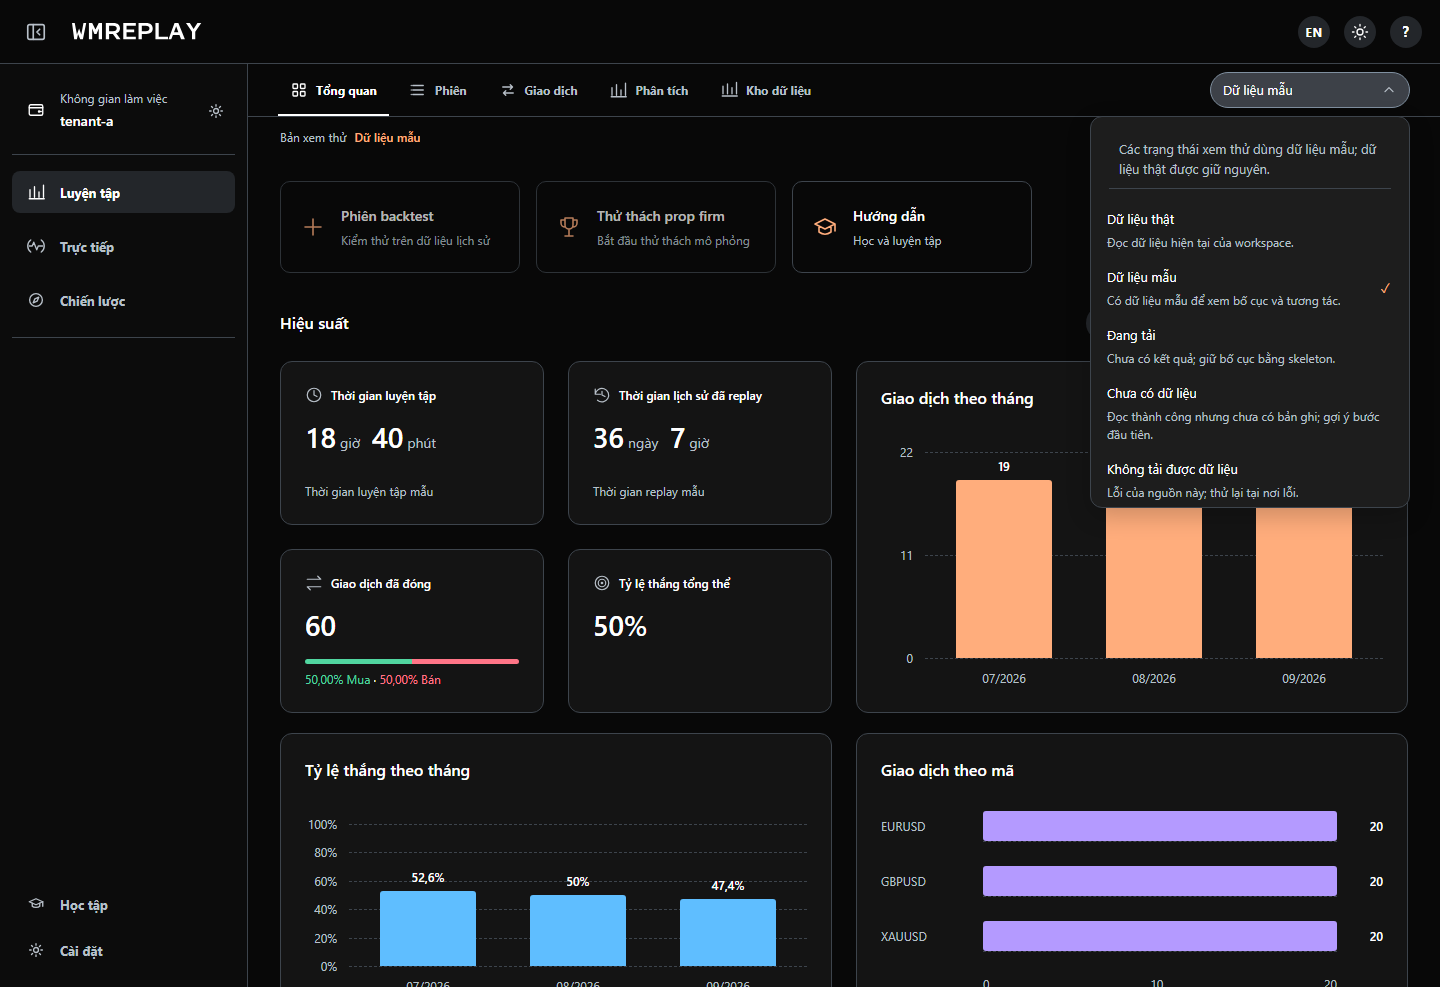
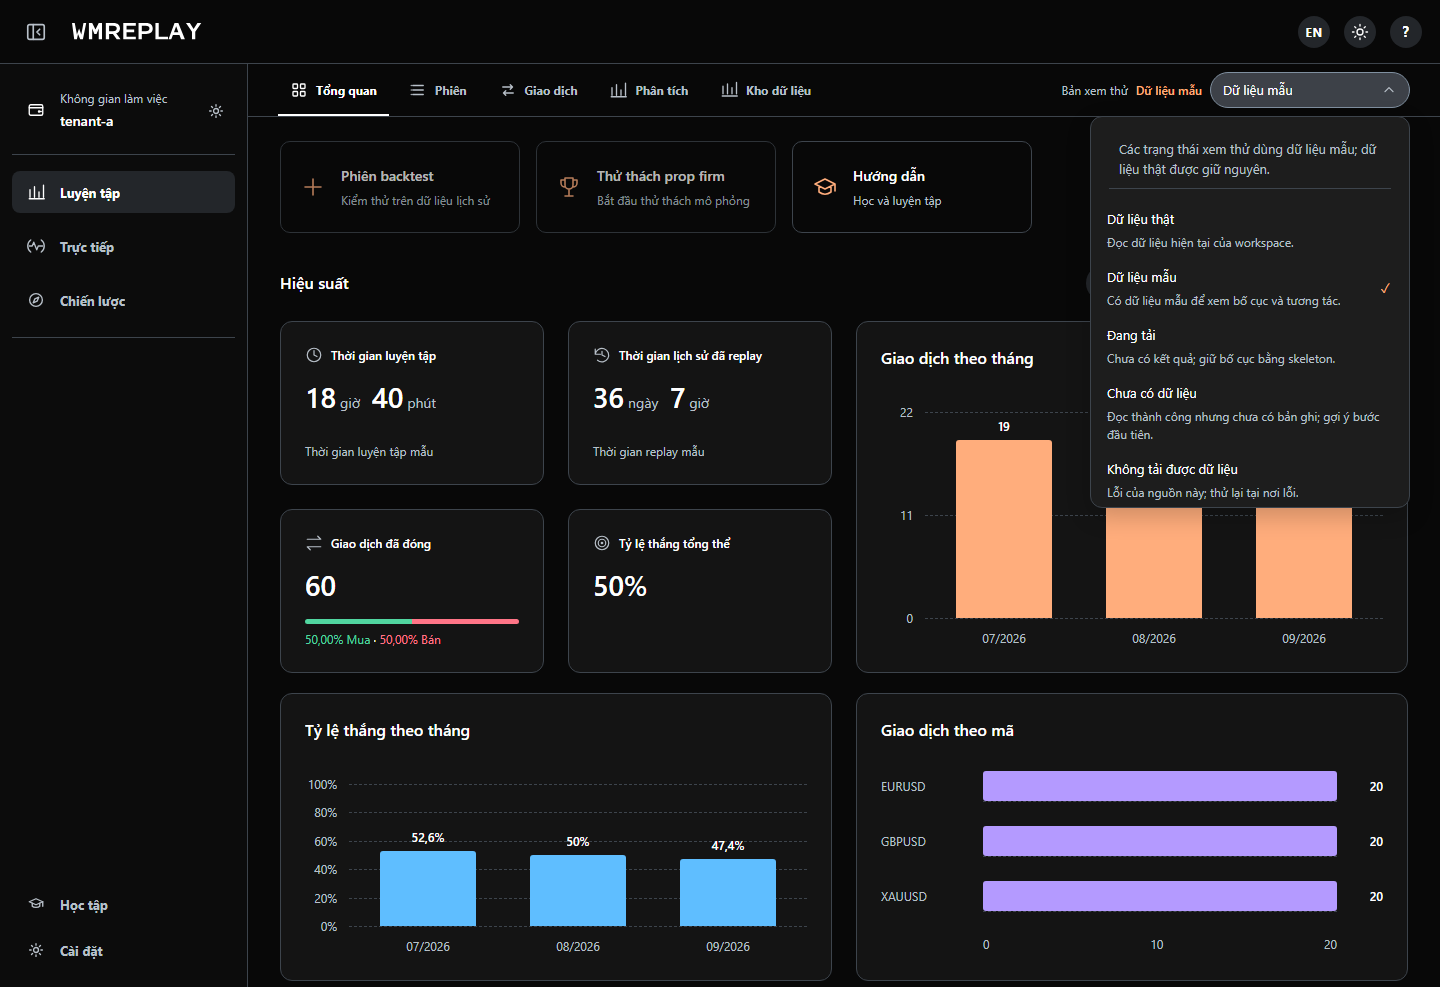
fix: place preview status beside shared data selector

diff --git a/foundation_v2/web/src/view-state-preview.css b/foundation_v2/web/src/view-state-preview.css
@@ -1,12 +1,21 @@
-.wm-view-state-select { width:clamp(140px,16vw,200px); }
+.wm-view-state-select { width:clamp(140px,16vw,200px); flex-shrink:0; }
 .fx-app .wm-view-state-select .fx-select-trigger { border-color:transparent; background:var(--wm-control-open); }
 .fx-app .wm-view-state-select .fx-select-menu { width:320px; }
 .wm-view-state-menu-hint { padding:4px 10px 10px; margin:0; border-bottom:1px solid var(--wm-border); font-size:12px; line-height:1.5; color:var(--wm-content-muted); }
-.wm-view-state-note { display:flex; align-items:center; flex-wrap:wrap; gap:8px; padding:12px 0; color:var(--wm-content-muted); font-size:12px; }
-.wm-view-state-note strong { color:var(--project-highlight); font-weight:500; }
+.wm-view-state-note { display:flex; align-items:center; gap:8px; max-width:min(300px,22vw); color:var(--wm-content-muted); font-size:12px; white-space:nowrap; }
+.wm-view-state-note > span { flex-shrink:0; }
+.wm-view-state-note strong { min-width:0; overflow:hidden; text-overflow:ellipsis; color:var(--project-highlight); font-weight:500; }
 .wm-view-state-placeholder { padding:8px 0 var(--wm-page-gutter); }
 .wm-view-state-placeholder > .fxa-button { margin-top:12px; }
 .wm-view-state-update { padding:0; }
 .wm-view-state-update .wm-read-state { margin:0; }
 .wm-view-state-placeholder .wm-read-state button, .wm-view-state-update .wm-read-state button { flex-shrink:0; white-space:nowrap; }
-@media(max-width:600px) { .wm-view-state-select { width:140px; } }
+@media(max-width:600px) {
+  .fx-app.fx-shell-story:not(.is-chart-workspace) .fx-subnav:has(.wm-view-state-select) { flex-wrap:wrap; row-gap:0; }
+  .fx-app.fx-shell-story:not(.is-chart-workspace) .fx-subnav:has(.wm-view-state-select) .fx-subnav-primary { flex:1 0 100%; min-width:0; }
+  .fx-app.fx-shell-story:not(.is-chart-workspace) .fx-subnav:has(.wm-view-state-select) .fx-subnav-action { flex-basis:100%; display:flex; justify-content:flex-end; padding-block:8px; }
+  .fx-subnav-action .wm-demo-action { max-width:100%; }
+  .wm-view-state-select { width:140px; }
+  .wm-view-state-note { flex-direction:column; align-items:flex-start; gap:0; min-width:0; max-width:92px; line-height:1.3; }
+  .wm-view-state-note strong { max-width:100%; }
+}

diff --git a/foundation_v2/web/src/ViewStatePreview.jsx b/foundation_v2/web/src/ViewStatePreview.jsx
@@ -10,7 +10,10 @@ const DemoPreview = lazy(() => import('./DemoPreview.jsx'))
 
 export function ViewStateSelect({ value, view, onChange }) {
   const { t } = useTestingLocale()
-  return <div className="wm-demo-action"><FxSelect className="wm-view-state-select" label="Chế độ xem dữ liệu" value={value}
+  const label = DATA_STATES.find(([state]) => state === value)?.[1] || 'Dữ liệu mẫu'
+  return <div className="wm-demo-action">
+    {value !== 'real' && <div className="wm-view-state-note" data-testid="view-state-preview" data-preview-state={value} role="status"><span>{t('Bản xem thử')}</span><strong title={t(label)}>{t(label)}</strong></div>}
+    <FxSelect className="wm-view-state-select" label="Chế độ xem dữ liệu" value={value}
     triggerContent={t(previewOptions(view).find(option => option.value === value)?.label)}
     options={previewOptions(view).map(option => ({ ...option, detail: option.disabled ? 'Chưa có mẫu trạng thái này cho trang hiện tại.' : option.detail }))}
     menuHeader={<p className="wm-view-state-menu-hint">{t('Các trạng thái xem thử dùng dữ liệu mẫu; dữ liệu thật được giữ nguyên.')}</p>}
@@ -33,7 +36,6 @@ export default function ViewStatePreview({ state, view, workspace, query, onChan
     unknown: 'Có phiên và giao dịch, nhưng chưa biết thời gian luyện tập và replay. Các số chưa biết hiển thị —.',
   }
   return <>
-    <div className="wm-view-state-note" data-testid="view-state-preview" data-preview-state={state} role="status"><span>{t('Bản xem thử')}</span><strong>{t(label)}</strong></div>
     {state === 'loading' ? <section className="wm-view-state-placeholder" aria-label={t(label)}><TestingSkeleton rows={6} /></section>
       : !hasData ? <section className="wm-view-state-placeholder"><TestingReadState error={state === 'error' || state === 'denied'} message={messages[state]} onRetry={state === 'error' ? () => onChange('demo') : undefined} />
         {['empty', 'filtered'].includes(state) && <button className="fxa-button" type="button" onClick={() => onChange('demo')}>{t(state === 'filtered' ? 'Xóa bộ lọc' : 'Xem ví dụ có dữ liệu')}</button>}

diff --git a/foundation_v2/web/src/FxSelect.jsx b/foundation_v2/web/src/FxSelect.jsx
@@ -33,7 +33,7 @@ export default function FxSelect({ label, value, options: inputOptions, onChange
       const menu = root.current?.querySelector('.fx-select-menu')
       if (!menu) return
       // Popups must fit the scrolling content, which also clips the sidebar edge.
-      const container = root.current.closest('dialog, .quick-session-body, .fx-content')
+      const container = root.current.closest('dialog, .quick-session-body, .fx-content, .fx-main')
       const clip = container?.getBoundingClientRect()
       const left = Math.max(12, (clip?.left || 0) + 12), right = Math.min(window.innerWidth - 12, (clip ? clip.left + container.clientWidth : window.innerWidth) - 12)
       menu.style.maxWidth = `${right - left}px`

diff --git a/foundation_v2/evidence/view-state-preview-20261010/README.md b/foundation_v2/evidence/view-state-preview-20261010/README.md
@@ -9,10 +9,20 @@ Loading/empty/error replace the dependent content group. Refreshing/stale preser
 ## Evidence
 
 - Focused Node tests: 16 passed (preview context, navigation, fixtures and surface boundaries).
-- `browser.json`: 48 cases passed. Overview states at 1440/390px, dark/light; eight additional pages loading → sample. No page errors, preview API requests or writes. Mutating requests and external origins were blocked.
+- `browser.json`: 88 cases passed. Overview states at 1440/390/360/320px, dark/light; eight additional pages loading → sample. No page errors, preview API requests or writes. Mutating requests and external origins were blocked.
 - Browser journeys cover retry, history, reload, return to actual local GET data, preserved shell/rail/header, menu viewport fit and ledger direct-child/scroll layout.
 - Production Vite build passed, output under `.runtime/ui-state-preview/dist` (not committed).
 - Independent review: `/root/state_preview_review` approved scoped source/visual/a11y review; independently checked keyboard navigation, disabled states, 390px menu fit and loading persistence across page navigation with all API requests blocked.
 - Selected screenshots show the menu, partial dashboard, unknown metrics and mobile error. Full local screenshot matrix is alongside the report.
 
 These are simulated states using deterministic fixtures and product components. They do not establish that every live backend resource generates each state. Real mode was checked against current local GET services. The previously reported route-boundary error was not reproduced after service restart; its cause remains unconfirmed.
+
+## Follow-up: shared status placement
+
+The preview status now sits immediately left of the state selector in the shared subnav action on all supported pages. It no longer consumes a separate row above page content. On narrow screens the controls use their own subnav row, keeping full-width navigation; the status uses two compact lines with truncation for long labels. Real mode has no preview status. The 88-case browser matrix covers 1440/390/360/320px with placement, centre alignment, useful navigation width and selector viewport checks, including all eight additional pages. Independent review caught the initial mobile navigation compression; the final checks cover that regression.
+
+Independent re-review at 320/360px passed: navigation widths 226/266px, selector within viewport, preview status left of the selector, and stable content top when switching to real. Production build passed after the responsive fix.
+
+Visual review also caught the menu clipping under the sidebar at 320px: a select in subnav was using viewport bounds, unlike selects within page content. FxSelect now includes the main shell as its nearest clipping boundary. Browser assertions check the menu's left edge against the main shell, not just viewport bounds.
+
+Final independent approval verified unclipped labels at 320/360px (menu left 70px), Escape, status placement and real mode. The final 88-case run and production build passed after the menu fix.
